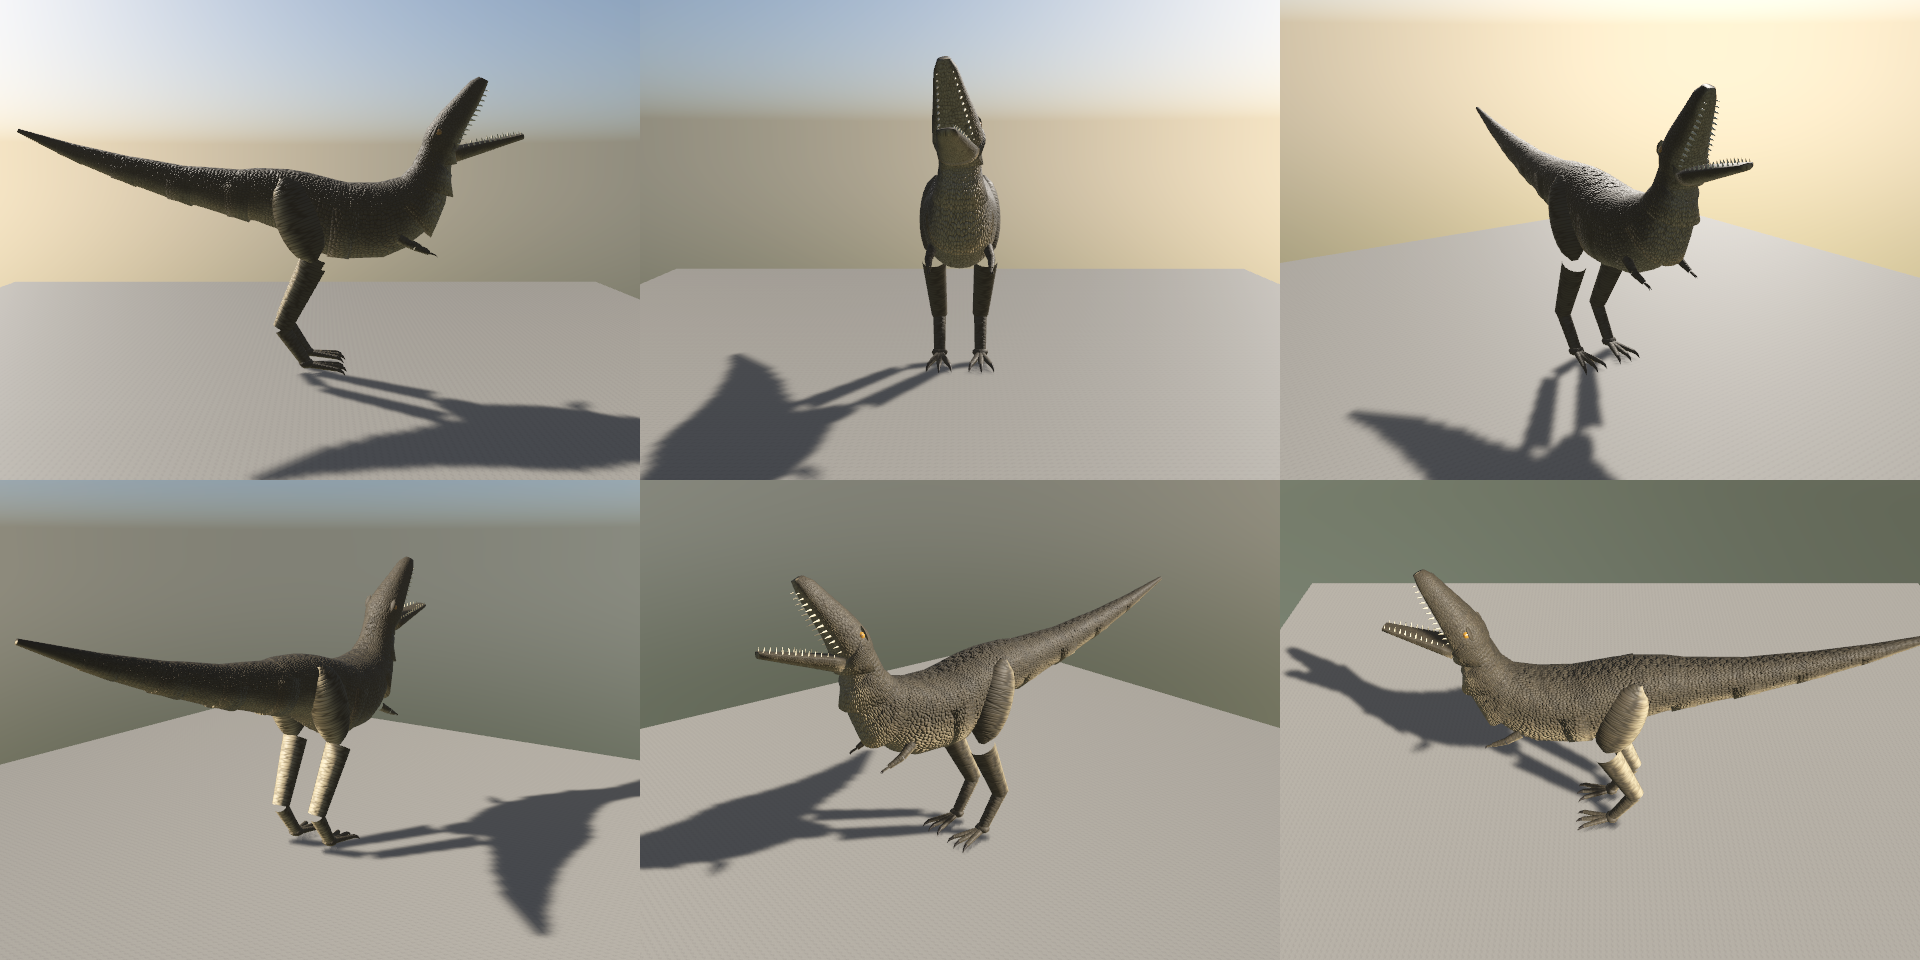
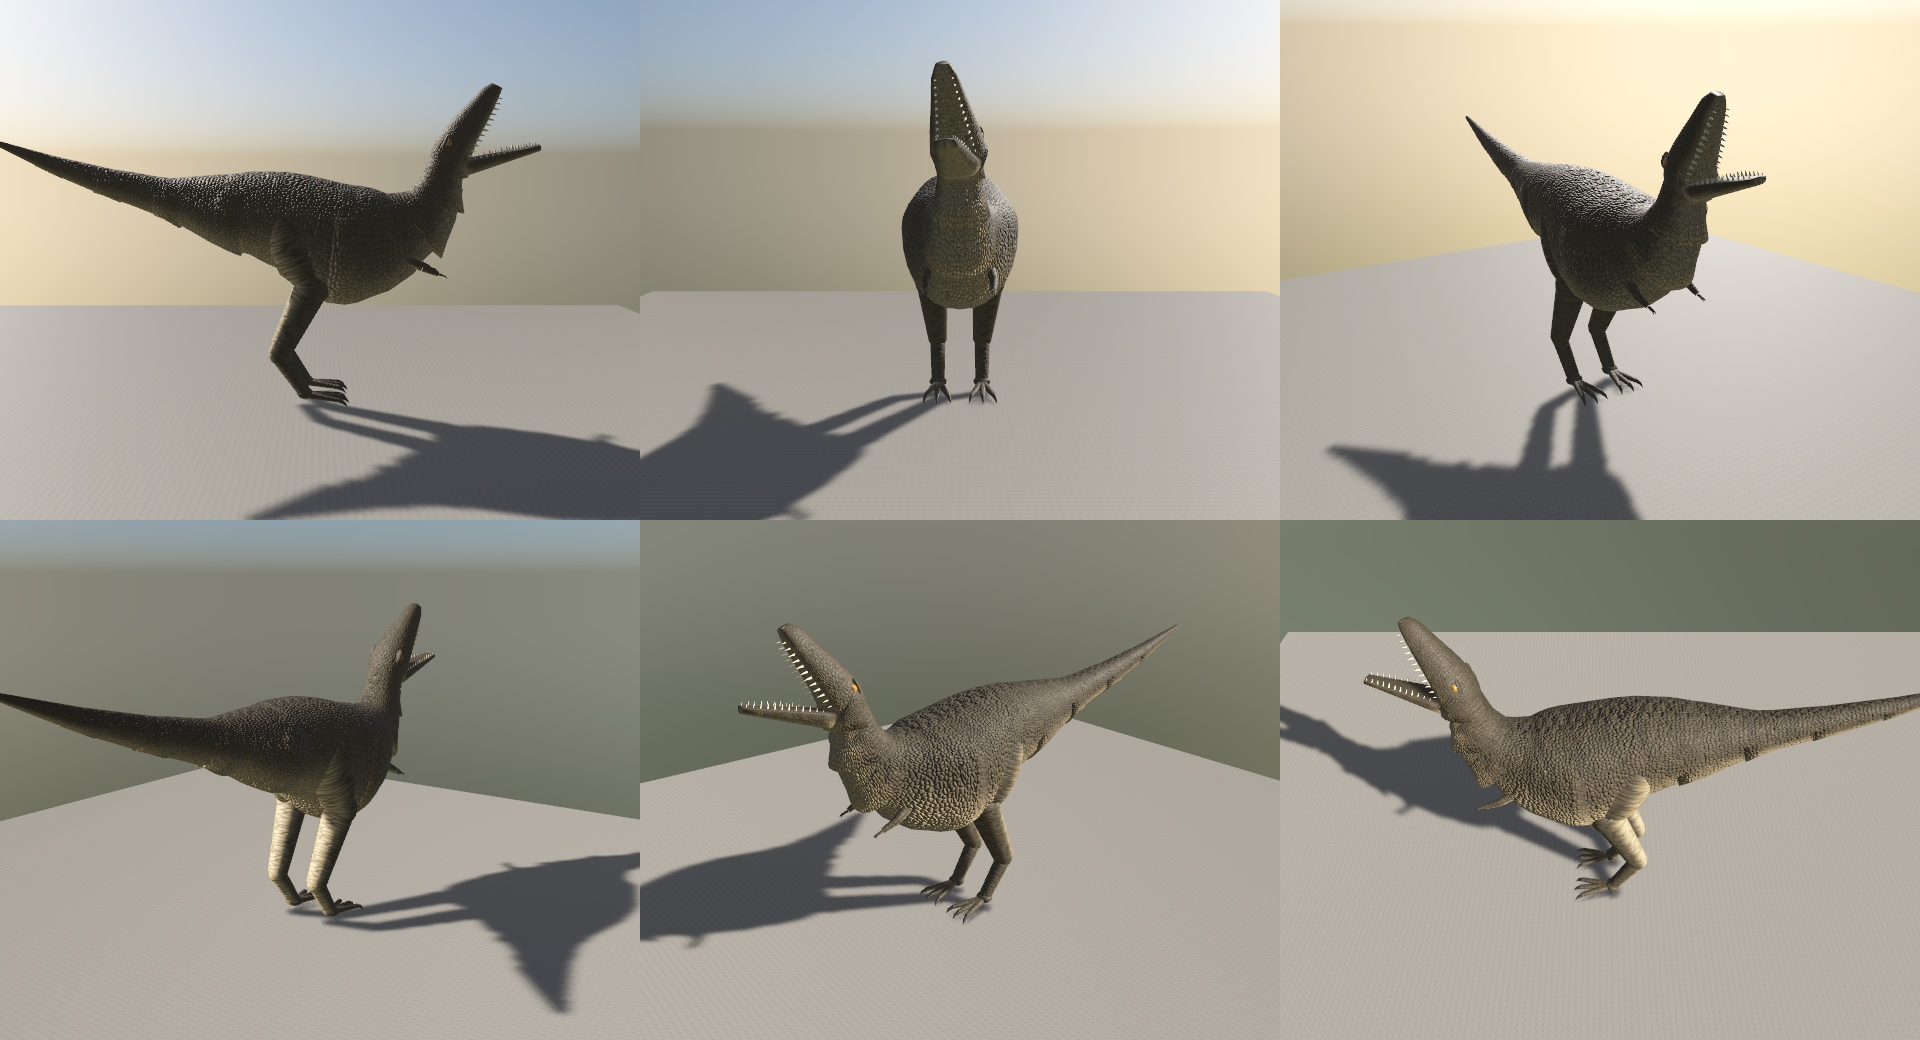
Dinos: bury thigh roots in the flank, knee and ankle fillers, Triceratops beak mandible, heavier torsos

diff --git a/Sources/AnimalCore/Dino/DinoRigBuilder.swift b/Sources/AnimalCore/Dino/DinoRigBuilder.swift
@@ -71,6 +71,13 @@ public enum DinoRigBuilder {
             declare(DinoJoint.tails[k], k == 0 ? DinoJoint.tailYaw : DinoJoint.tails[k - 1], center(z), X, -35...35)
         }
 
+        // Torso mass multiplier: full over chest and hips, fading into the neck and the tail.
+        func bulk(_ z: Float) -> Float {
+            let back = p.tailRoot + (tip - p.tailRoot) * 0.35, front = p.neckZ
+            func ss(_ x: Float) -> Float { let t = min(max(x, 0), 1); return t * t * (3 - 2 * t) }
+            let w = ss((back - z) / max(0.001, back - p.tailRoot)) * ss((z - front) / max(0.001, p.chestZ - front))
+            return 1 + p.bulk * w
+        }
         // Midline body: one loft per part, overlapping its neighbours a little.
         func trunk(_ z0: Float, _ z1: Float, _ part: String, _ m: MaterialKey, n: Int, headUV: Bool = false) {
             let ov = 0.025 * L
@@ -79,11 +86,12 @@ public enum DinoRigBuilder {
             for i in 0..<n {
                 let z = za + (zb - za) * Float(i) / Float(n - 1)
                 let s = p.section(at: z)
+                let m = girth * bulk(z)
                 let dz = 0.01 * L
                 let t = simd_normalize(center(z - dz) - center(z + dz))
                 let up = simd_normalize(simd_cross(X, t))
-                secs.append(LoftSection(center: V3(0, s.y, z), right: X, up: up, halfWidth: s.halfWidth * girth,
-                                        halfDorsal: s.halfDorsal * girth, halfVentral: s.halfVentral * girth, exponent: 2.2))
+                secs.append(LoftSection(center: V3(0, s.y, z), right: X, up: up, halfWidth: s.halfWidth * m,
+                                        halfDorsal: s.halfDorsal * m, halfVentral: s.halfVentral * m, exponent: 2.2))
             }
             let v: ClosedRange<Float> = headUV ? 0...1 : ((tip - za) / L)...((tip - zb) / L)
             rig.add(Loft.build(secs, segments: 28, vRange: v, material: m, caps: true), to: part)
@@ -98,7 +106,20 @@ public enum DinoRigBuilder {
 
         // Lower jaw, mouth lining and teeth.
         var jsecs: [LoftSection] = []
-        for i in 0..<8 {
+        if p.species == .triceratops {
+            // Beak-shaped mandible: deep at the hinge, tucked under the head, tapering to the predentary.
+            let z0 = p.jawHinge.z, z1 = p.chin.z
+            for i in 0..<10 {
+                let t = Float(i) / 9
+                let z = z0 + (z1 - z0) * t
+                let hs = p.section(at: z)
+                let w = hs.halfWidth * girth * (0.86 - 0.2 * t)
+                let d = hs.halfVentral * (0.75 - 0.15 * t)
+                let cy = hs.y - hs.halfVentral * 0.55
+                jsecs.append(LoftSection(center: V3(0, cy, z), right: X, up: Y, halfWidth: w, halfDorsal: d * 0.9, halfVentral: d * 0.6, exponent: 2.0))
+            }
+        }
+        for i in 0..<(p.species == .triceratops ? 0 : 8) {
             let t = Float(i) / 7
             let c = p.jawHinge + (p.chin - p.jawHinge) * t
             let w = p.jawHinges.x + (p.jawTip.x - p.jawHinges.x) * t, d = p.jawHinges.y + (p.jawTip.y - p.jawHinges.y) * t
@@ -154,7 +175,8 @@ public enum DinoRigBuilder {
             rig.add(Prim.tube([nb, nb + V3(0, 0.2, -0.08), nb + V3(0, 0.32, -0.04)], radii: [0.09, 0.05, 0.004], sides: 8, seamTile: 0.1, material: mat(.horn)), to: DinoJoint.head)
             let bk = center(snout + 0.25)
             rig.add(Loft.ellipsoid(center: bk + V3(0, -0.04, -0.12), axis: V3(0, -0.4, -1), up: Y, radii: V3(0.07, 0.14, 0.2), rings: 7, segments: 12, material: mat(.horn)), to: DinoJoint.head)
-            rig.add(Loft.ellipsoid(center: p.chin + V3(0, 0.02, 0.05), axis: V3(0, 0.3, -1), up: Y, radii: V3(0.06, 0.08, 0.16), rings: 6, segments: 10, material: mat(.horn)), to: DinoJoint.jaw)
+            let cs = p.section(at: p.chin.z + 0.1)
+            rig.add(Loft.ellipsoid(center: V3(0, cs.y - cs.halfVentral * 0.6, p.chin.z + 0.14), axis: V3(0, 0.45, -1), up: Y, radii: V3(0.07, 0.07, 0.15), rings: 7, segments: 12, material: mat(.horn)), to: DinoJoint.jaw)
         }
 
         // Limbs.
@@ -184,11 +206,20 @@ public enum DinoRigBuilder {
             declare(DinoJoint.name(limb, .ankle), DinoJoint.name(limb, .knee), ankle, X, -80...80)
             declare(DinoJoint.name(limb, .toe), DinoJoint.name(limb, .ankle), ball, X, -70...70)
             // Thigh: a heavy muscle mass that blends into the flank.
-            let tc = hip + (knee - hip) * 0.42 + V3(0, r.x * 0.2, 0)
-            rig.add(Loft.ellipsoid(center: tc, axis: knee - hip, up: V3(0, 0, -1), radii: V3(r.x * 0.75, r.x, simd_distance(hip, knee) * 0.62), rings: 10, segments: 18,
-                                   material: mat(.limb), uv: { u, v in V2(u, v * 2) }), to: DinoJoint.name(limb, .hip))
-            segment(knee, ankle, V3(r.y, r.y * 1.1, r.y * 1.1), V3(r.y * 0.7, r.y * 0.75, r.y * 0.75), to: DinoJoint.name(limb, .knee))
-            segment(ankle, ball, V3(r.z, r.z * 1.1, r.z * 1.1), V3(r.z * 0.85, r.z * 0.8, r.z * 0.8), to: DinoJoint.name(limb, .ankle))
+            // Its top is buried in the flank: a root mass on the parent body plus a thigh that starts above the hip.
+            let tl = simd_distance(hip, knee)
+            let pm = mat(.limb)
+            rig.add(Loft.ellipsoid(center: hip + V3(-sx * r.x * 0.25, -r.x * 0.1, 0), axis: V3(0, -1, 0), up: V3(0, 0, -1), radii: V3(r.x * 1.05, r.x * 1.25, r.x * 1.25),
+                                   rings: 10, segments: 18, material: pm), to: parent)
+            let tc = hip + (knee - hip) * 0.4 + V3(0, r.x * 0.15, 0)
+            rig.add(Loft.ellipsoid(center: tc, axis: knee - hip, up: V3(0, 0, -1), radii: V3(r.x * 0.95, r.x * 1.2, tl * 0.72), rings: 12, segments: 18,
+                                   material: pm, uv: { u, v in V2(u, v * 2) }), to: DinoJoint.name(limb, .hip))
+            // Joint fillers: spheres on the child part sized to cover both neighbours through the full bend.
+            rig.add(Loft.ellipsoid(center: knee, axis: V3(0, -1, 0), up: V3(0, 0, -1), radii: V3(r.y * 1.3, r.y * 1.35, r.y * 1.4), rings: 8, segments: 16, material: pm), to: DinoJoint.name(limb, .knee))
+            rig.add(Loft.ellipsoid(center: ankle, axis: V3(0, -1, 0), up: V3(0, 0, -1), radii: V3(r.z * 1.2, r.z * 1.25, r.z * 1.25), rings: 8, segments: 14, material: pm), to: DinoJoint.name(limb, .ankle))
+            let kd = simd_normalize(ankle - knee), ad = simd_normalize(ball - ankle)
+            segment(knee - kd * r.y * 0.6, ankle, V3(r.y * 1.25, r.y * 1.3, r.y * 1.3), V3(r.y * 0.75, r.y * 0.8, r.y * 0.8), to: DinoJoint.name(limb, .knee))
+            segment(ankle - ad * r.z * 0.5, ball, V3(r.z * 1.1, r.z * 1.15, r.z * 1.15), V3(r.z * 0.9, r.z * 0.85, r.z * 0.85), to: DinoJoint.name(limb, .ankle))
             rig.add(Loft.ellipsoid(center: ball, axis: V3(0, 0, -1), up: Y, radii: V3(r.z * 1.2, r.z * 0.7, r.z * 1.1), rings: 6, segments: 12, material: mat(.limb)), to: DinoJoint.name(limb, .toe))
             digits(ball + V3(0, -r.w * 0.2, 0), count: toes, spread: toes == 2 ? 0.18 : 0.32, length: l.toe, r: r.w, down: true, to: DinoJoint.name(limb, .toe))
         }

diff --git a/Sources/AnimalCore/Dino/DinoSpecies.swift b/Sources/AnimalCore/Dino/DinoSpecies.swift
@@ -54,6 +54,8 @@ public struct DinoProfile: Sendable {
     public var teeth: Int
     /// Scale rows across the body length for the skin atlas.
     public var scaleRows: Float
+    /// Extra torso girth over chest and hips (0 = sections as listed).
+    public var bulk: Float = 0
 
     public var isBiped: Bool { stance == .biped }
     public var hasSickleClaw: Bool { species == .velociraptor }
@@ -76,7 +78,7 @@ public struct DinoProfile: Sendable {
                 hind: DinoLeg(hip: V3(0.55, 3.9, 0.1), knee: V3(0.6, 2.4, -0.45), ankle: V3(0.5, 0.95, 0.25), ball: V3(0.48, 0.14, -0.3), toe: 0.75, radii: V4(0.5, 0.28, 0.16, 0.09)),
                 fore: DinoLeg(hip: V3(0.55, 3.0, -2.3), knee: V3(0.62, 2.68, -2.5), ankle: V3(0.6, 2.55, -2.82), ball: V3(0.6, 2.5, -2.9), toe: 0.14, radii: V4(0.11, 0.08, 0.05, 0.03)),
                 colors: DinoColors(back: 0x4A4231, belly: 0xB9A783, stripe: 0x2B261C, claw: 0x2A2420, horn: 0x5A5040, eye: 0xB07818, mouth: 0x8A3A3A),
-                feathered: false, teeth: 12, scaleRows: 160)
+                feathered: false, teeth: 12, scaleRows: 160, bulk: 0.45)
         case .triceratops:
             return DinoProfile(
                 species: s, stance: .quadruped, targetLength: 8, targetHipHeight: 2,
@@ -92,14 +94,14 @@ public struct DinoProfile: Sendable {
                 hind: DinoLeg(hip: V3(0.6, 2.0, 0.3), knee: V3(0.65, 1.15, -0.1), ankle: V3(0.65, 0.4, 0.15), ball: V3(0.65, 0.12, -0.1), toe: 0.28, radii: V4(0.4, 0.23, 0.18, 0.08)),
                 fore: DinoLeg(hip: V3(0.75, 1.6, -1.9), knee: V3(0.88, 0.95, -1.75), ankle: V3(0.86, 0.35, -1.85), ball: V3(0.86, 0.1, -1.95), toe: 0.2, radii: V4(0.3, 0.19, 0.15, 0.07)),
                 colors: DinoColors(back: 0x5B5236, belly: 0xC2B28A, stripe: 0x6E3A22, claw: 0x2E2822, horn: 0xD8CDB0, eye: 0x6A4A14, mouth: 0x7A3A34),
-                feathered: false, teeth: 0, scaleRows: 110)
+                feathered: false, teeth: 0, scaleRows: 110, bulk: 0.08)
         case .velociraptor:
             return DinoProfile(
                 species: s, stance: .biped, targetLength: 2, targetHipHeight: 0.55,
                 spine: [
                     .init(1.15, 0.62, 0.015, 0.015, 0.015), .init(0.8, 0.6, 0.03, 0.03, 0.035), .init(0.4, 0.6, 0.05, 0.045, 0.055),
                     .init(0.12, 0.6, 0.08, 0.07, 0.09), .init(0, 0.6, 0.1, 0.08, 0.12), .init(-0.2, 0.58, 0.11, 0.08, 0.14),
-                    .init(-0.38, 0.6, 0.09, 0.07, 0.1), .init(-0.5, 0.68, 0.05, 0.05, 0.06), .init(-0.56, 0.78, 0.045, 0.045, 0.05),
+                    .init(-0.38, 0.6, 0.09, 0.07, 0.1), .init(-0.5, 0.68, 0.065, 0.06, 0.075), .init(-0.56, 0.78, 0.055, 0.052, 0.058),
                     .init(-0.6, 0.82, 0.05, 0.05, 0.045), .init(-0.68, 0.81, 0.04, 0.04, 0.025), .init(-0.78, 0.79, 0.025, 0.028, 0.015),
                     .init(-0.85, 0.78, 0.012, 0.014, 0.008),
                 ],
@@ -108,7 +110,7 @@ public struct DinoProfile: Sendable {
                 hind: DinoLeg(hip: V3(0.07, 0.56, 0.02), knee: V3(0.08, 0.38, -0.1), ankle: V3(0.075, 0.17, 0.05), ball: V3(0.075, 0.02, -0.02), toe: 0.1, radii: V4(0.055, 0.03, 0.02, 0.011)),
                 fore: DinoLeg(hip: V3(0.07, 0.53, -0.38), knee: V3(0.09, 0.45, -0.3), ankle: V3(0.09, 0.44, -0.45), ball: V3(0.09, 0.43, -0.48), toe: 0.05, radii: V4(0.02, 0.015, 0.01, 0.005)),
                 colors: DinoColors(back: 0x7A5634, belly: 0xD4C29E, stripe: 0x2E2216, claw: 0x1E1A16, horn: 0x3A3028, eye: 0xC89018, mouth: 0x9A4A44),
-                feathered: true, teeth: 10, scaleRows: 60)
+                feathered: true, teeth: 10, scaleRows: 60, bulk: 0.7)
         }
     }
 

diff --git a/notes/visual-log.md b/notes/visual-log.md
@@ -145,3 +145,16 @@ without the deer muzzle band, erect or hanging ears (`GroundAnatomy.earDrop`), s
 - it2: plan path. Fur cards read as white spikes, torso narrow, floppy ears hidden in the skull. Cards 420 to 170/110, card length 0.05 to 0.03/0.022, feather fringe off, bodyWidth up, ears base 0.3 head widths outward.
 - it3: legScale 1.5/1.4/1.15, tail core full width for dogs, haunch mass uses the limb coat (white belly coat showed on corgi).
 Remaining: shoulder and haunch masses read as separate blobs, golden has no feathering, corgi hind legs kink, tail is a tapered slab, coat still shows furCoat banding.
+
+## 2026-10-31 dino joints, jaw, mass
+
+it0 baseline (idle/walk/pulled, 6-view sheets): legs are separate rigid tubes, gap between thigh top and flank,
+seams at knee and ankle, Triceratops mandible a boxy slab below the head, T-rex and raptor torsos thin.
+it1 fixes: thigh root mass on pelvis/chest part, thigh ellipsoid 1.2x radius, knee and ankle filler spheres
+on the child part, shin/metatarsus start inside the filler; `DinoProfile.bulk` torso girth (trex 0.3, raptor 0.4,
+tri 0.08); Triceratops jaw rebuilt from head sections (tucked, tapers to predentary).
+it1 result: knee seams gone in walk/pulled, thighs blend into flank, jaw tucked; raptor body and neck still thin,
+predentary pokes past the snout.
+it2 fixes: bulk trex 0.45, raptor 0.7; raptor neck sections thicker; Triceratops predentary moved behind the snout tip.
+it2 result: no leg-body gap or knee seam in idle/walk/pulled for all three; Triceratops jaw tucked under the beak;
+T-rex and raptor torsos read heavy. Open: faint ring at the pelvis/chest loft boundary on T-rex.
